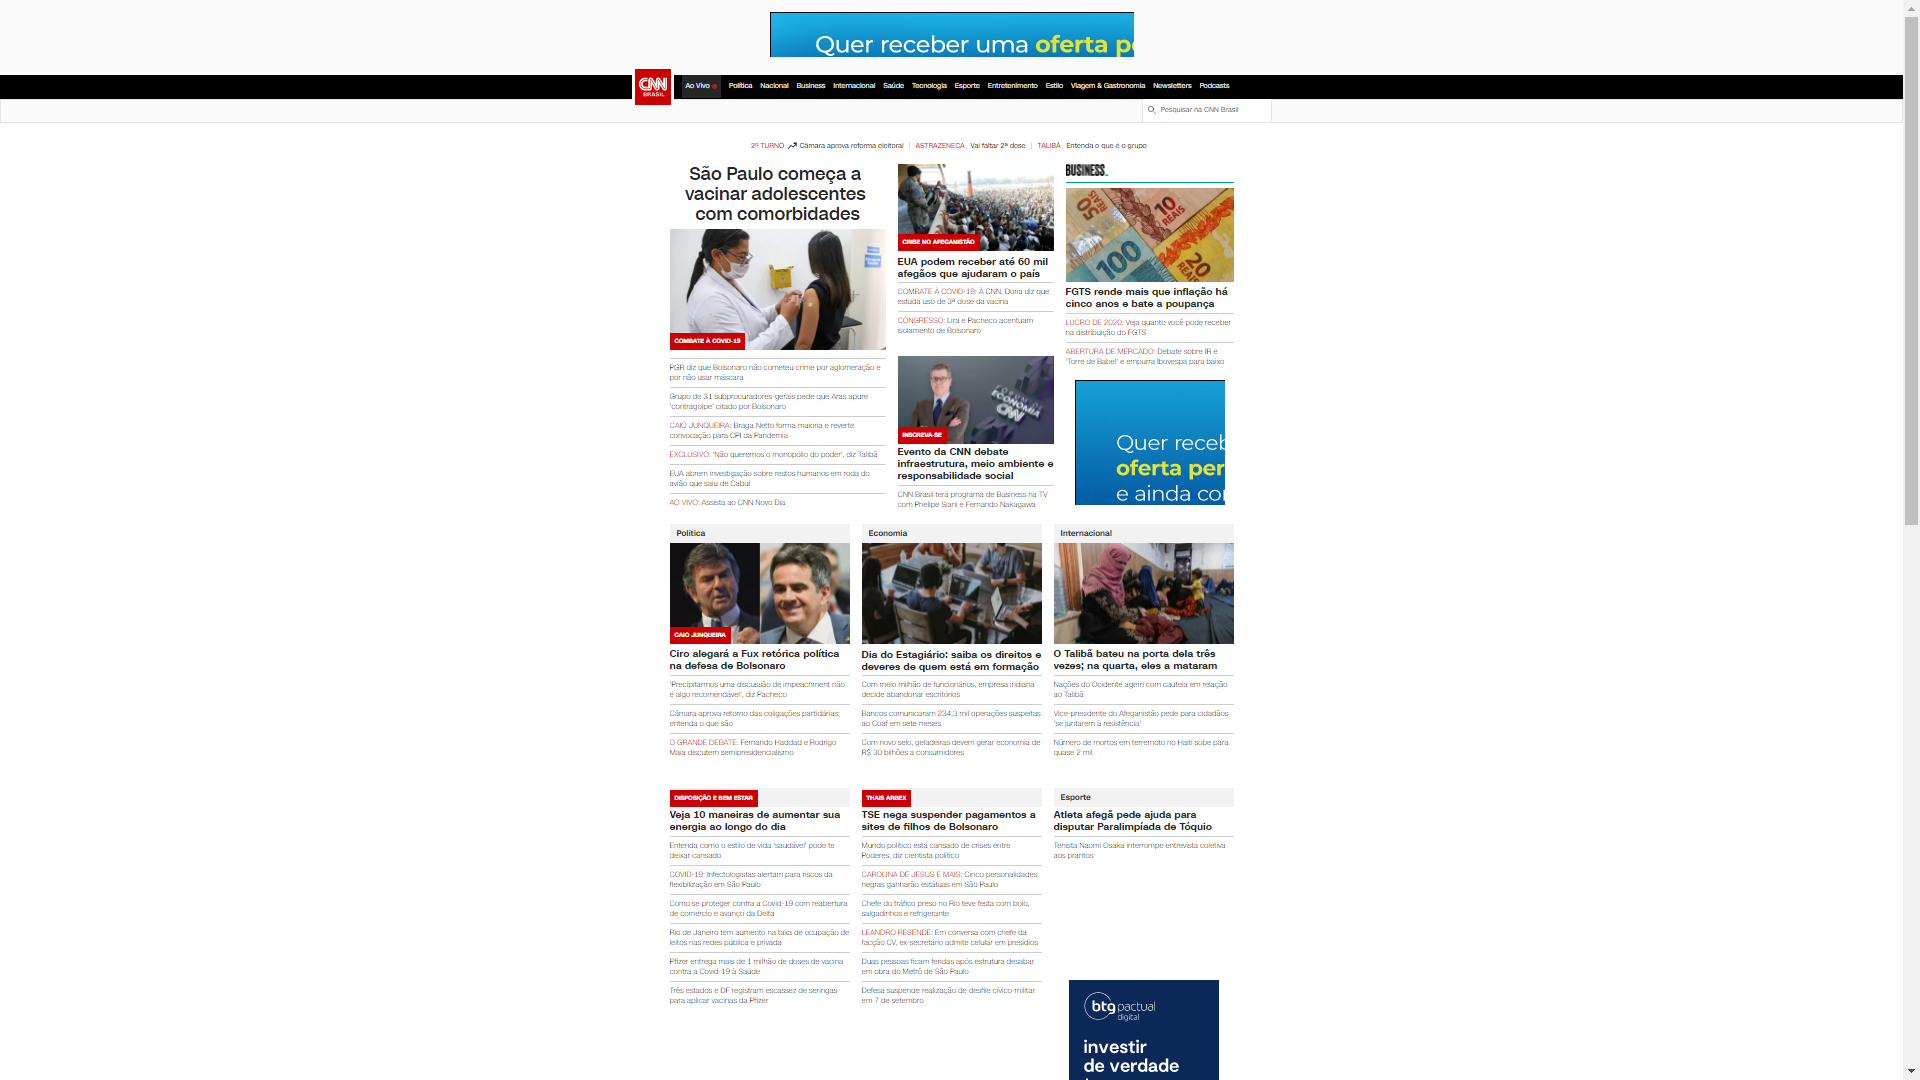
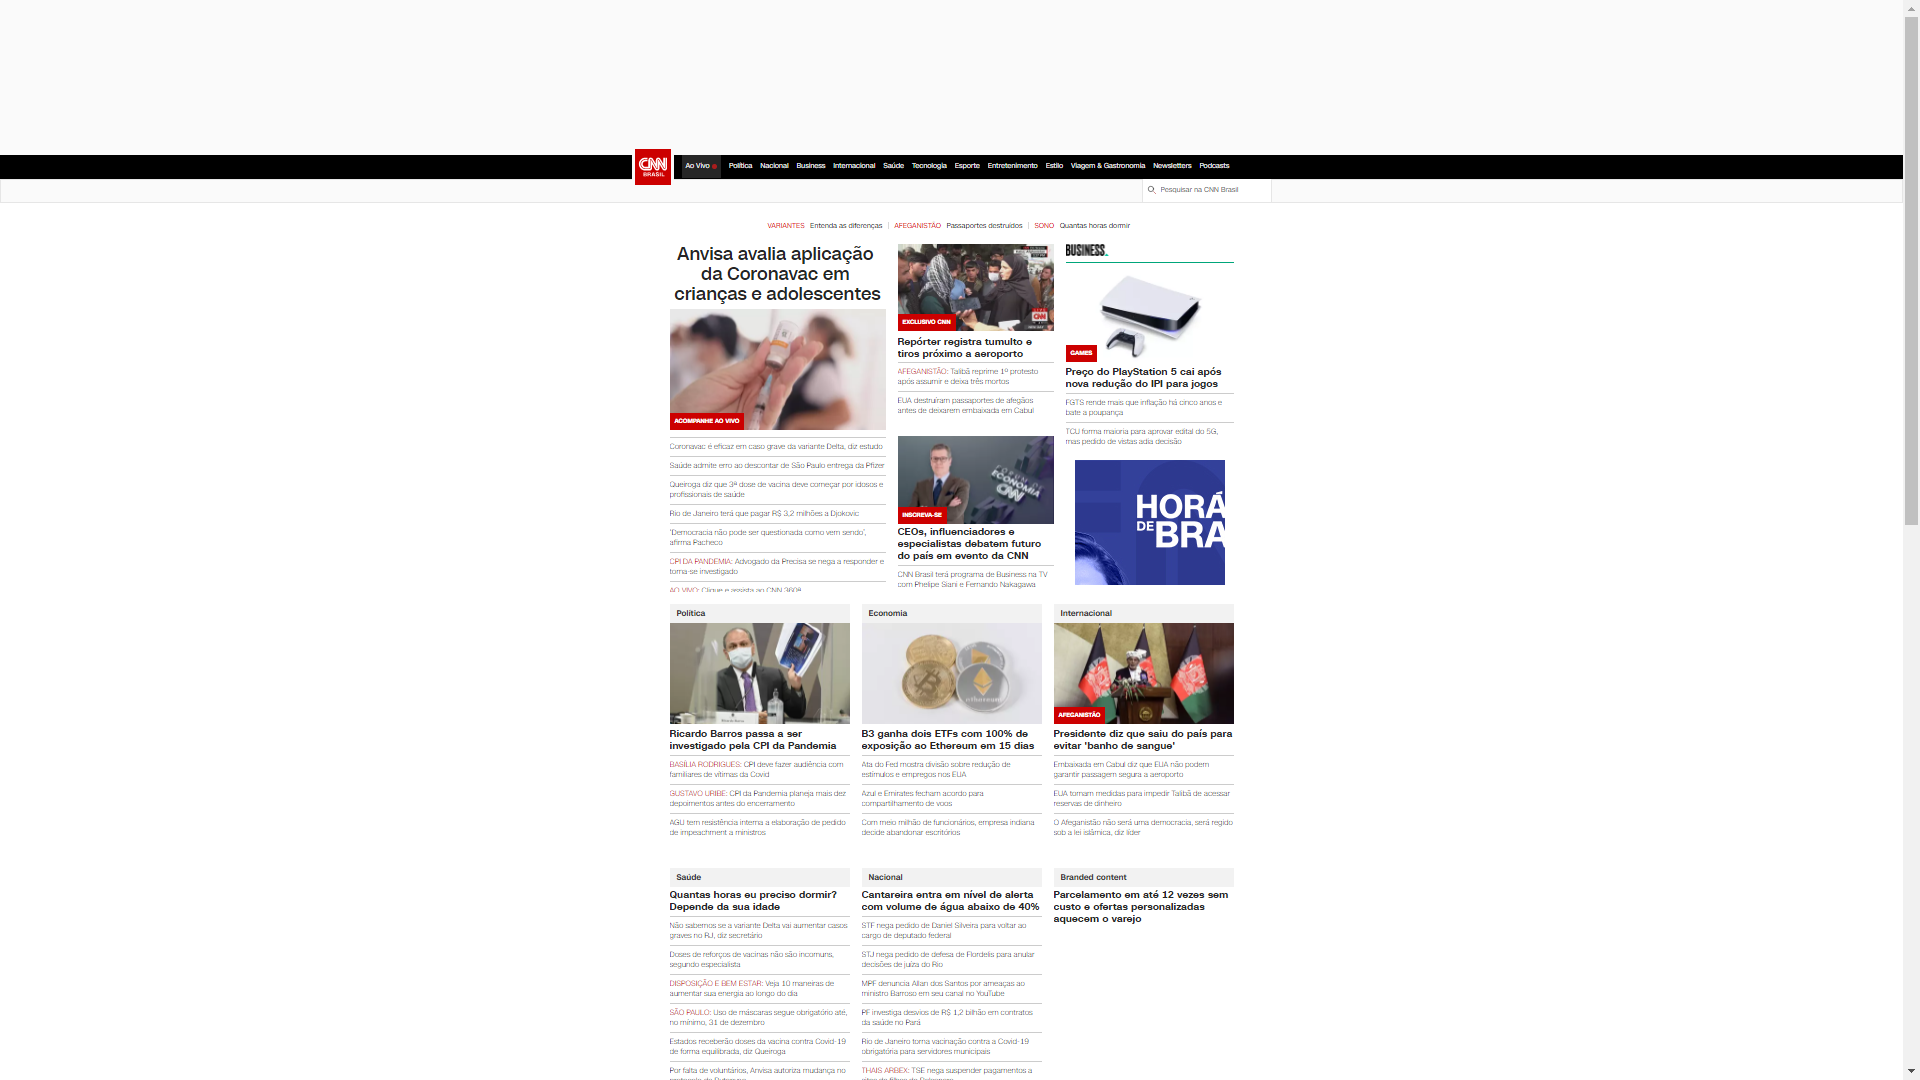
crop image

Changed region(s): [[0.0, 0.1222, 1.0, 1.0], [0.0, 0.0, 1.0, 0.0917]]

diff --git a/screenshot.py b/screenshot.py
@@ -19,8 +19,10 @@ def screenshot(url):
 
 def compress():
     image = Image.open("images/screenshot.png")
-    new_image = image.resize((960,540), resample=1)
-    new_image.save("images/compressed.png")
+    new_image = image.resize((1280,720), resample=1)
+    w, h = new_image.size
+    #(left, up, right, down)
+    new_image.crop((400, 0, w-400, h)).save("images/compressed.png")
     print("foto comprimida!")
 
 def task():
@@ -38,10 +40,13 @@ def task():
             print("noticia adicionada!")
 
 def main():   
+    '''
+    colocar 3 vezes ao dia
     schedule.every(120).minutes.do(task)
     while True:
         schedule.run_pending()
-        time.sleep(1)
+        time.sleep(1)'''
+    task() 
 
 if __name__ == "__main__":
     main()

diff --git a/db.py b/db.py
@@ -19,13 +19,13 @@ def getClient():
 def addNoticia(client, jornal):
     db = client.Noticias
     screenshot = db.screenshot
-    image = Image.open("images/screenshot.png")
+    image = Image.open("images/compressed.png")
     image_bytes = io.BytesIO()
     image.save(image_bytes, format='PNG')
 
     screenshotDocument = {
         "jornal" : jornal,
-        "data": datetime.now().strftime("%d/%m/%Y %H:%M:%S"), 
+        "data": datetime.now(), 
         "imagem": image_bytes.getvalue()
     }
     screenshot.insert_one(screenshotDocument)
